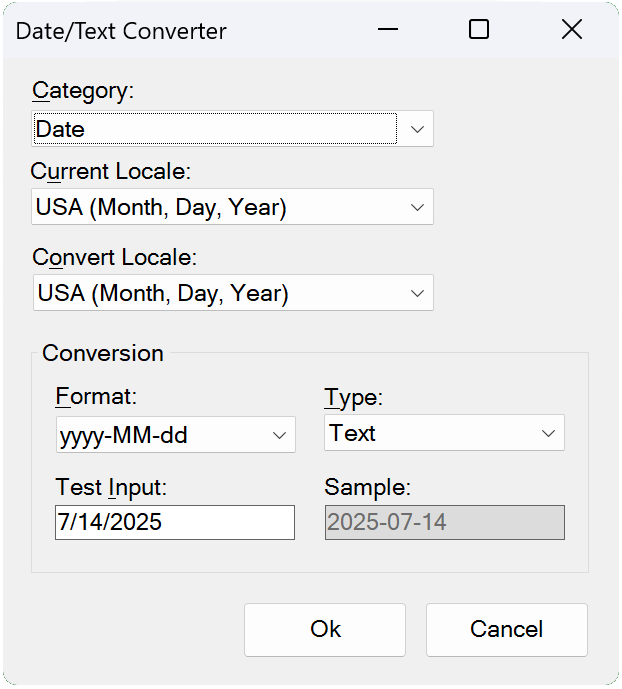
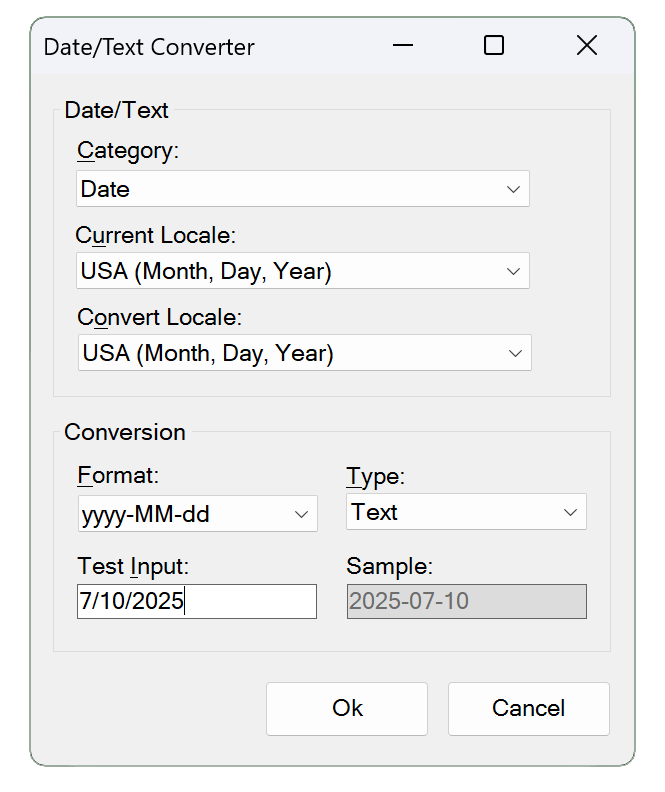
Fixed dropdowns on Date/Text converter user form.

diff --git a/XLQuickTools/Form_TextConverter.Designer.cs b/XLQuickTools/Form_TextConverter.Designer.cs
@@ -45,19 +45,20 @@
             this.groupBox2 = new System.Windows.Forms.GroupBox();
             this.LblCurrentLocale = new System.Windows.Forms.Label();
             this.CbCurrentLocale = new System.Windows.Forms.ComboBox();
+            this.groupBox1 = new System.Windows.Forms.GroupBox();
             this.groupBox2.SuspendLayout();
+            this.groupBox1.SuspendLayout();
             this.SuspendLayout();
             // 
             // CbCategory
             // 
             this.CbCategory.DropDownStyle = System.Windows.Forms.ComboBoxStyle.DropDownList;
-            this.CbCategory.DropDownWidth = 363;
+            this.CbCategory.DropDownWidth = 454;
             this.CbCategory.Font = new System.Drawing.Font("Microsoft Sans Serif", 9F, System.Drawing.FontStyle.Regular, System.Drawing.GraphicsUnit.Point, ((byte)(0)));
             this.CbCategory.FormattingEnabled = true;
-            this.CbCategory.Location = new System.Drawing.Point(28, 52);
-            this.CbCategory.Margin = new System.Windows.Forms.Padding(6);
+            this.CbCategory.Location = new System.Drawing.Point(23, 75);
             this.CbCategory.Name = "CbCategory";
-            this.CbCategory.Size = new System.Drawing.Size(403, 37);
+            this.CbCategory.Size = new System.Drawing.Size(454, 37);
             this.CbCategory.TabIndex = 1;
             this.CbCategory.SelectedIndexChanged += new System.EventHandler(this.CbCategory_SelectedIndexChanged);
             // 
@@ -79,7 +80,7 @@
             this.label1.AutoSize = true;
             this.label1.BackColor = System.Drawing.Color.Transparent;
             this.label1.Font = new System.Drawing.Font("Microsoft Sans Serif", 9F, System.Drawing.FontStyle.Regular, System.Drawing.GraphicsUnit.Point, ((byte)(0)));
-            this.label1.Location = new System.Drawing.Point(25, 17);
+            this.label1.Location = new System.Drawing.Point(20, 40);
             this.label1.Margin = new System.Windows.Forms.Padding(6, 0, 6, 0);
             this.label1.Name = "label1";
             this.label1.Size = new System.Drawing.Size(116, 29);
@@ -101,7 +102,7 @@
             // TextConvertForm_Cancel
             // 
             this.TextConvertForm_Cancel.Font = new System.Drawing.Font("Microsoft Sans Serif", 9F, System.Drawing.FontStyle.Regular, System.Drawing.GraphicsUnit.Point, ((byte)(0)));
-            this.TextConvertForm_Cancel.Location = new System.Drawing.Point(422, 544);
+            this.TextConvertForm_Cancel.Location = new System.Drawing.Point(416, 607);
             this.TextConvertForm_Cancel.Margin = new System.Windows.Forms.Padding(4);
             this.TextConvertForm_Cancel.Name = "TextConvertForm_Cancel";
             this.TextConvertForm_Cancel.Size = new System.Drawing.Size(164, 56);
@@ -113,7 +114,7 @@
             // TextConvertForm_Ok
             // 
             this.TextConvertForm_Ok.Font = new System.Drawing.Font("Microsoft Sans Serif", 9F, System.Drawing.FontStyle.Regular, System.Drawing.GraphicsUnit.Point, ((byte)(0)));
-            this.TextConvertForm_Ok.Location = new System.Drawing.Point(240, 544);
+            this.TextConvertForm_Ok.Location = new System.Drawing.Point(234, 607);
             this.TextConvertForm_Ok.Margin = new System.Windows.Forms.Padding(4);
             this.TextConvertForm_Ok.Name = "TextConvertForm_Ok";
             this.TextConvertForm_Ok.Size = new System.Drawing.Size(164, 56);
@@ -183,12 +184,12 @@
             // CbConvertLocale
             // 
             this.CbConvertLocale.DropDownStyle = System.Windows.Forms.ComboBoxStyle.DropDownList;
-            this.CbConvertLocale.DropDownWidth = 363;
+            this.CbConvertLocale.DropDownWidth = 454;
             this.CbConvertLocale.Font = new System.Drawing.Font("Microsoft Sans Serif", 9F, System.Drawing.FontStyle.Regular, System.Drawing.GraphicsUnit.Point, ((byte)(0)));
             this.CbConvertLocale.FormattingEnabled = true;
-            this.CbConvertLocale.Location = new System.Drawing.Point(30, 216);
+            this.CbConvertLocale.Location = new System.Drawing.Point(25, 239);
             this.CbConvertLocale.Name = "CbConvertLocale";
-            this.CbConvertLocale.Size = new System.Drawing.Size(401, 37);
+            this.CbConvertLocale.Size = new System.Drawing.Size(454, 37);
             this.CbConvertLocale.TabIndex = 6;
             this.CbConvertLocale.SelectedIndexChanged += new System.EventHandler(this.CbConvertLocale_SelectedIndexChanged);
             // 
@@ -206,7 +207,7 @@
             // 
             this.LblFormatLocale.AutoSize = true;
             this.LblFormatLocale.Font = new System.Drawing.Font("Microsoft Sans Serif", 9F, System.Drawing.FontStyle.Regular, System.Drawing.GraphicsUnit.Point, ((byte)(0)));
-            this.LblFormatLocale.Location = new System.Drawing.Point(25, 184);
+            this.LblFormatLocale.Location = new System.Drawing.Point(20, 207);
             this.LblFormatLocale.Name = "LblFormatLocale";
             this.LblFormatLocale.Size = new System.Drawing.Size(180, 29);
             this.LblFormatLocale.TabIndex = 5;
@@ -223,7 +224,7 @@
             this.groupBox2.Controls.Add(this.label3);
             this.groupBox2.Controls.Add(this.label4);
             this.groupBox2.Font = new System.Drawing.Font("Microsoft Sans Serif", 9F, System.Drawing.FontStyle.Regular, System.Drawing.GraphicsUnit.Point, ((byte)(0)));
-            this.groupBox2.Location = new System.Drawing.Point(28, 280);
+            this.groupBox2.Location = new System.Drawing.Point(22, 343);
             this.groupBox2.Name = "groupBox2";
             this.groupBox2.Size = new System.Drawing.Size(558, 236);
             this.groupBox2.TabIndex = 7;
@@ -234,7 +235,7 @@
             // 
             this.LblCurrentLocale.AutoSize = true;
             this.LblCurrentLocale.Font = new System.Drawing.Font("Microsoft Sans Serif", 9F, System.Drawing.FontStyle.Regular, System.Drawing.GraphicsUnit.Point, ((byte)(0)));
-            this.LblCurrentLocale.Location = new System.Drawing.Point(23, 98);
+            this.LblCurrentLocale.Location = new System.Drawing.Point(18, 125);
             this.LblCurrentLocale.Name = "LblCurrentLocale";
             this.LblCurrentLocale.Size = new System.Drawing.Size(176, 29);
             this.LblCurrentLocale.TabIndex = 3;
@@ -245,11 +246,28 @@
             this.CbCurrentLocale.DropDownStyle = System.Windows.Forms.ComboBoxStyle.DropDownList;
             this.CbCurrentLocale.Font = new System.Drawing.Font("Microsoft Sans Serif", 9F, System.Drawing.FontStyle.Regular, System.Drawing.GraphicsUnit.Point, ((byte)(0)));
             this.CbCurrentLocale.FormattingEnabled = true;
-            this.CbCurrentLocale.Location = new System.Drawing.Point(28, 130);
+            this.CbCurrentLocale.Location = new System.Drawing.Point(23, 157);
             this.CbCurrentLocale.Name = "CbCurrentLocale";
-            this.CbCurrentLocale.Size = new System.Drawing.Size(403, 37);
+            this.CbCurrentLocale.Size = new System.Drawing.Size(454, 37);
             this.CbCurrentLocale.TabIndex = 4;
             this.CbCurrentLocale.SelectedIndexChanged += new System.EventHandler(this.CbCurrentLocale_SelectedIndexChanged);
+            // 
+            // groupBox1
+            // 
+            this.groupBox1.Controls.Add(this.CbCurrentLocale);
+            this.groupBox1.Controls.Add(this.CbCategory);
+            this.groupBox1.Controls.Add(this.CbConvertLocale);
+            this.groupBox1.Controls.Add(this.LblFormatLocale);
+            this.groupBox1.Controls.Add(this.LblCurrentLocale);
+            this.groupBox1.Controls.Add(this.label1);
+            this.groupBox1.Font = new System.Drawing.Font("Microsoft Sans Serif", 9F, System.Drawing.FontStyle.Regular, System.Drawing.GraphicsUnit.Point, ((byte)(0)));
+            this.groupBox1.Location = new System.Drawing.Point(22, 21);
+            this.groupBox1.Name = "groupBox1";
+            this.groupBox1.Size = new System.Drawing.Size(558, 303);
+            this.groupBox1.TabIndex = 18;
+            this.groupBox1.TabStop = false;
+            this.groupBox1.Tag = "";
+            this.groupBox1.Text = "Date/Text";
             // 
             // TextConvertForm
             // 
@@ -257,16 +275,11 @@
             this.AutoScaleMode = System.Windows.Forms.AutoScaleMode.Font;
             this.AutoValidate = System.Windows.Forms.AutoValidate.EnablePreventFocusChange;
             this.BackColor = System.Drawing.SystemColors.Control;
-            this.ClientSize = new System.Drawing.Size(616, 627);
-            this.Controls.Add(this.CbCurrentLocale);
+            this.ClientSize = new System.Drawing.Size(603, 691);
+            this.Controls.Add(this.groupBox1);
             this.Controls.Add(this.groupBox2);
-            this.Controls.Add(this.LblCurrentLocale);
-            this.Controls.Add(this.CbConvertLocale);
-            this.Controls.Add(this.CbCategory);
-            this.Controls.Add(this.LblFormatLocale);
             this.Controls.Add(this.TextConvertForm_Cancel);
             this.Controls.Add(this.TextConvertForm_Ok);
-            this.Controls.Add(this.label1);
             this.KeyPreview = true;
             this.Margin = new System.Windows.Forms.Padding(6);
             this.Name = "TextConvertForm";
@@ -276,8 +289,9 @@
             this.Load += new System.EventHandler(this.TextConvertForm_Load);
             this.groupBox2.ResumeLayout(false);
             this.groupBox2.PerformLayout();
+            this.groupBox1.ResumeLayout(false);
+            this.groupBox1.PerformLayout();
             this.ResumeLayout(false);
-            this.PerformLayout();
 
         }
 
@@ -300,5 +314,6 @@
         private System.Windows.Forms.GroupBox groupBox2;
         private System.Windows.Forms.Label LblCurrentLocale;
         private System.Windows.Forms.ComboBox CbCurrentLocale;
+        private System.Windows.Forms.GroupBox groupBox1;
     }
 }
